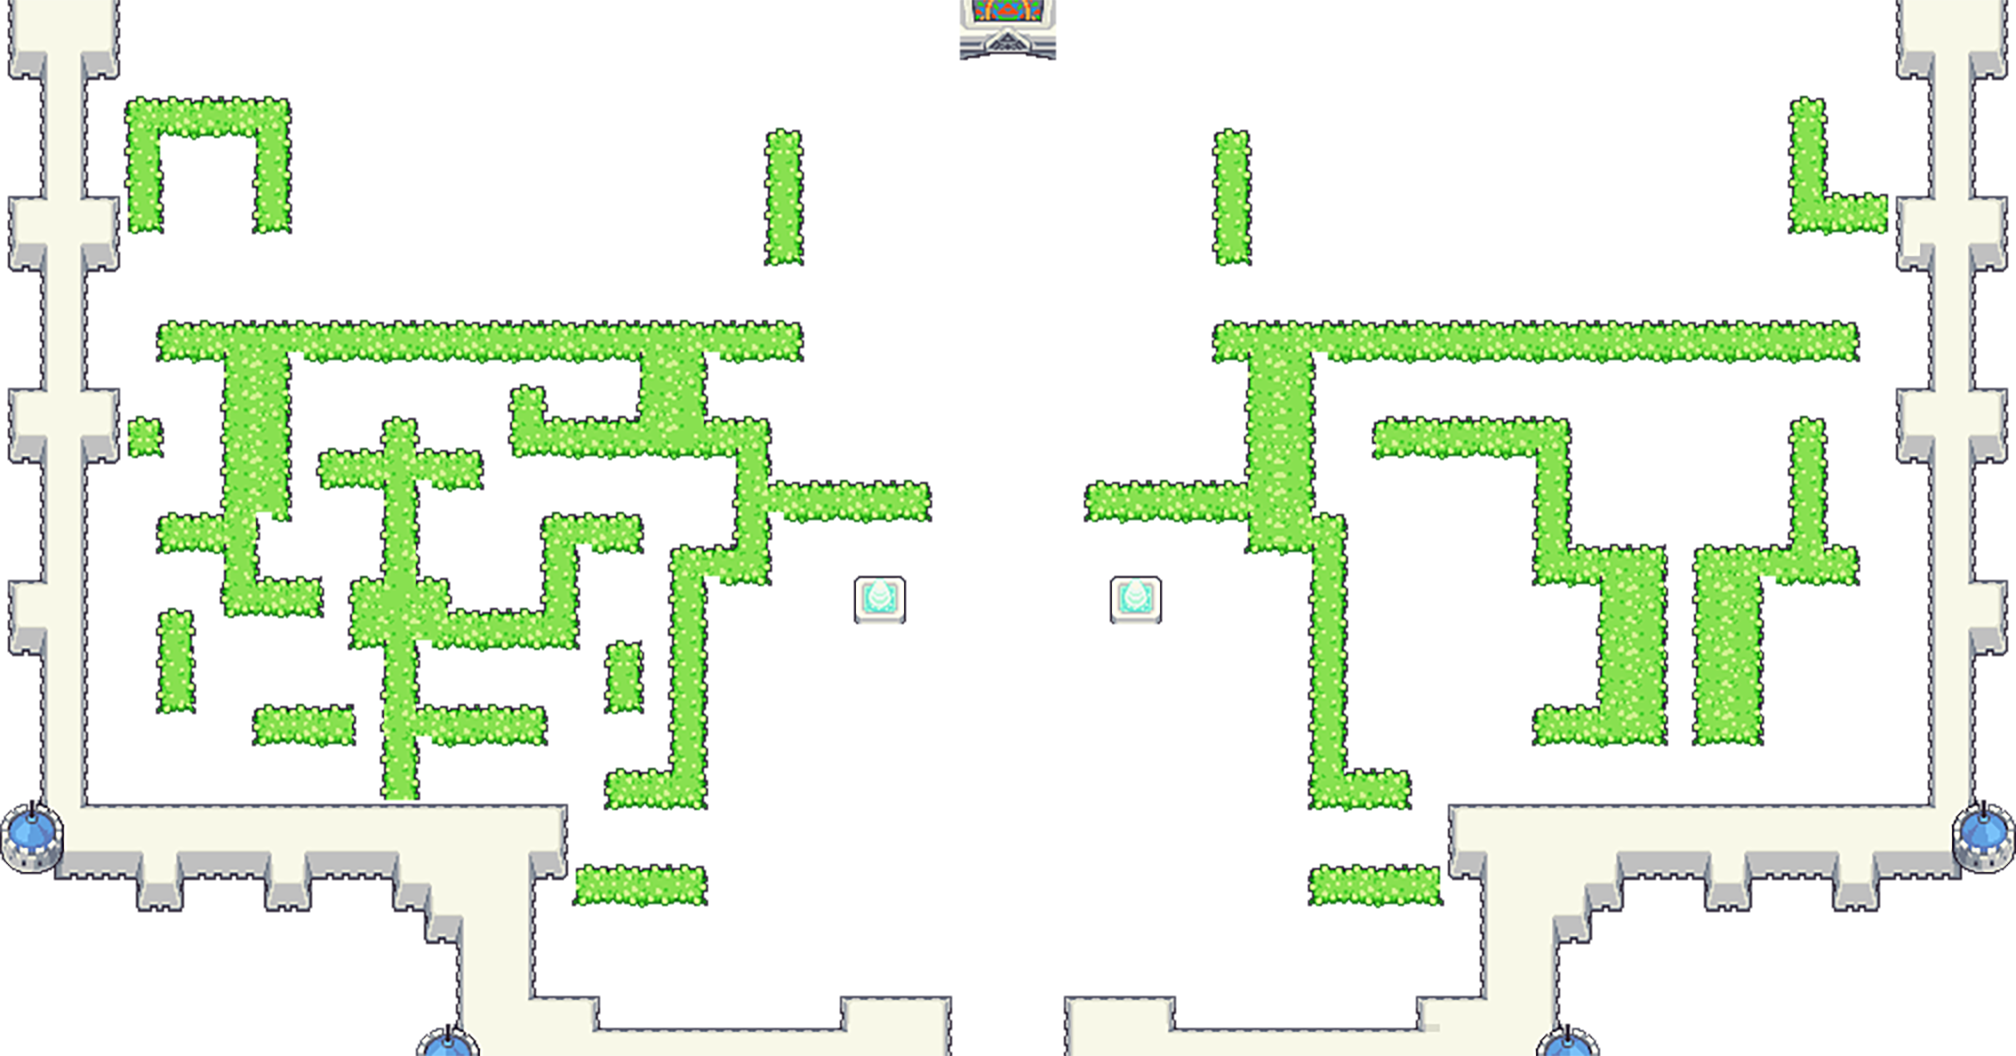
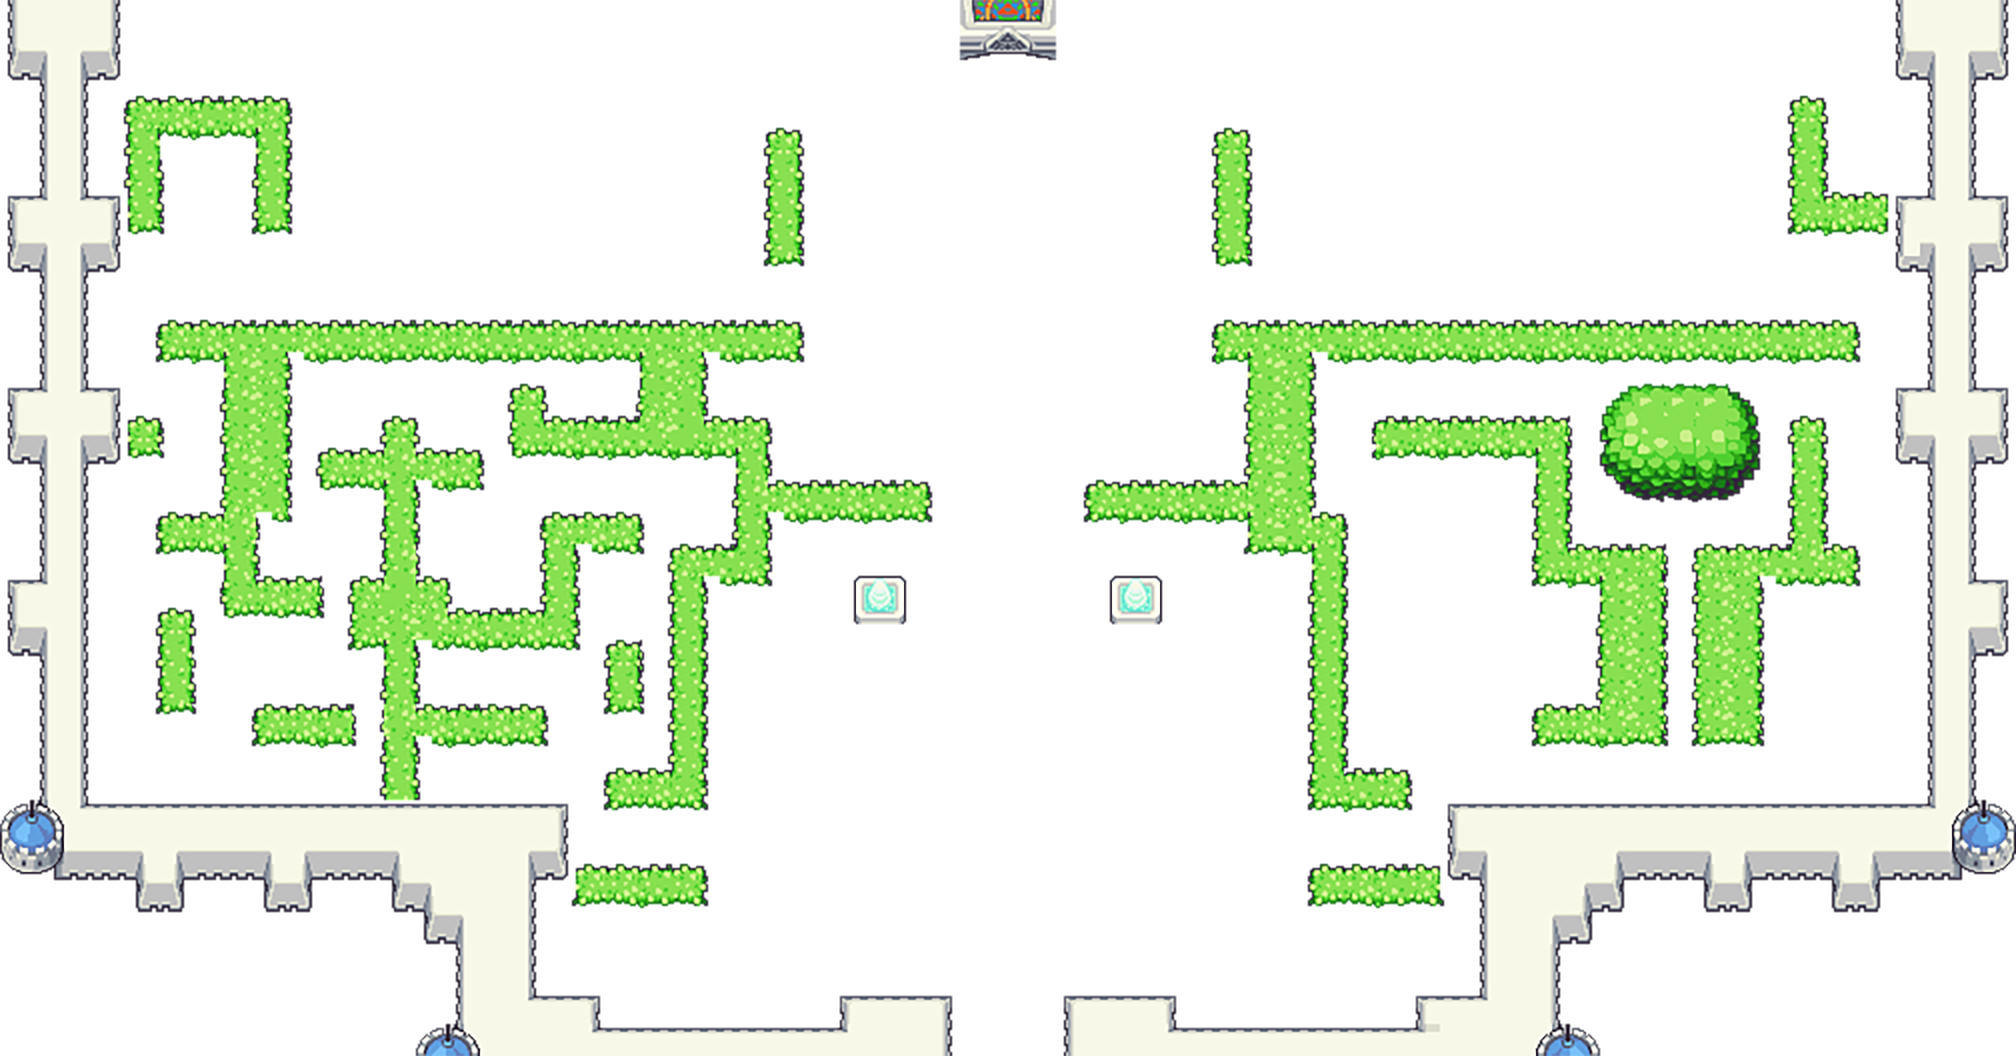
Should be the last of the map work.

Changed region(s): [[0.7812, 0.3438, 0.875, 0.5]]

diff --git a/src/groupproject/containers/zelda/ZeldaContainer.java b/src/groupproject/containers/zelda/ZeldaContainer.java
@@ -82,7 +82,7 @@ public class ZeldaContainer extends GameContainer {
 
     @Override
     protected void onInitialize() throws IOException {
-        MapManager.getInstance().loadTileMap("hyrule_castle/basement");
+        MapManager.getInstance().loadTileMap("hyrule_castle/castle_garden");
         world.setPlayer(new MinishLink(360, 300, 1000 / 24));
         world.getPlayer().setVelocity(4);
         world.addEnemy(new Octorok(getWidth() / 2, getHeight() / 2, 1000 / 16));
